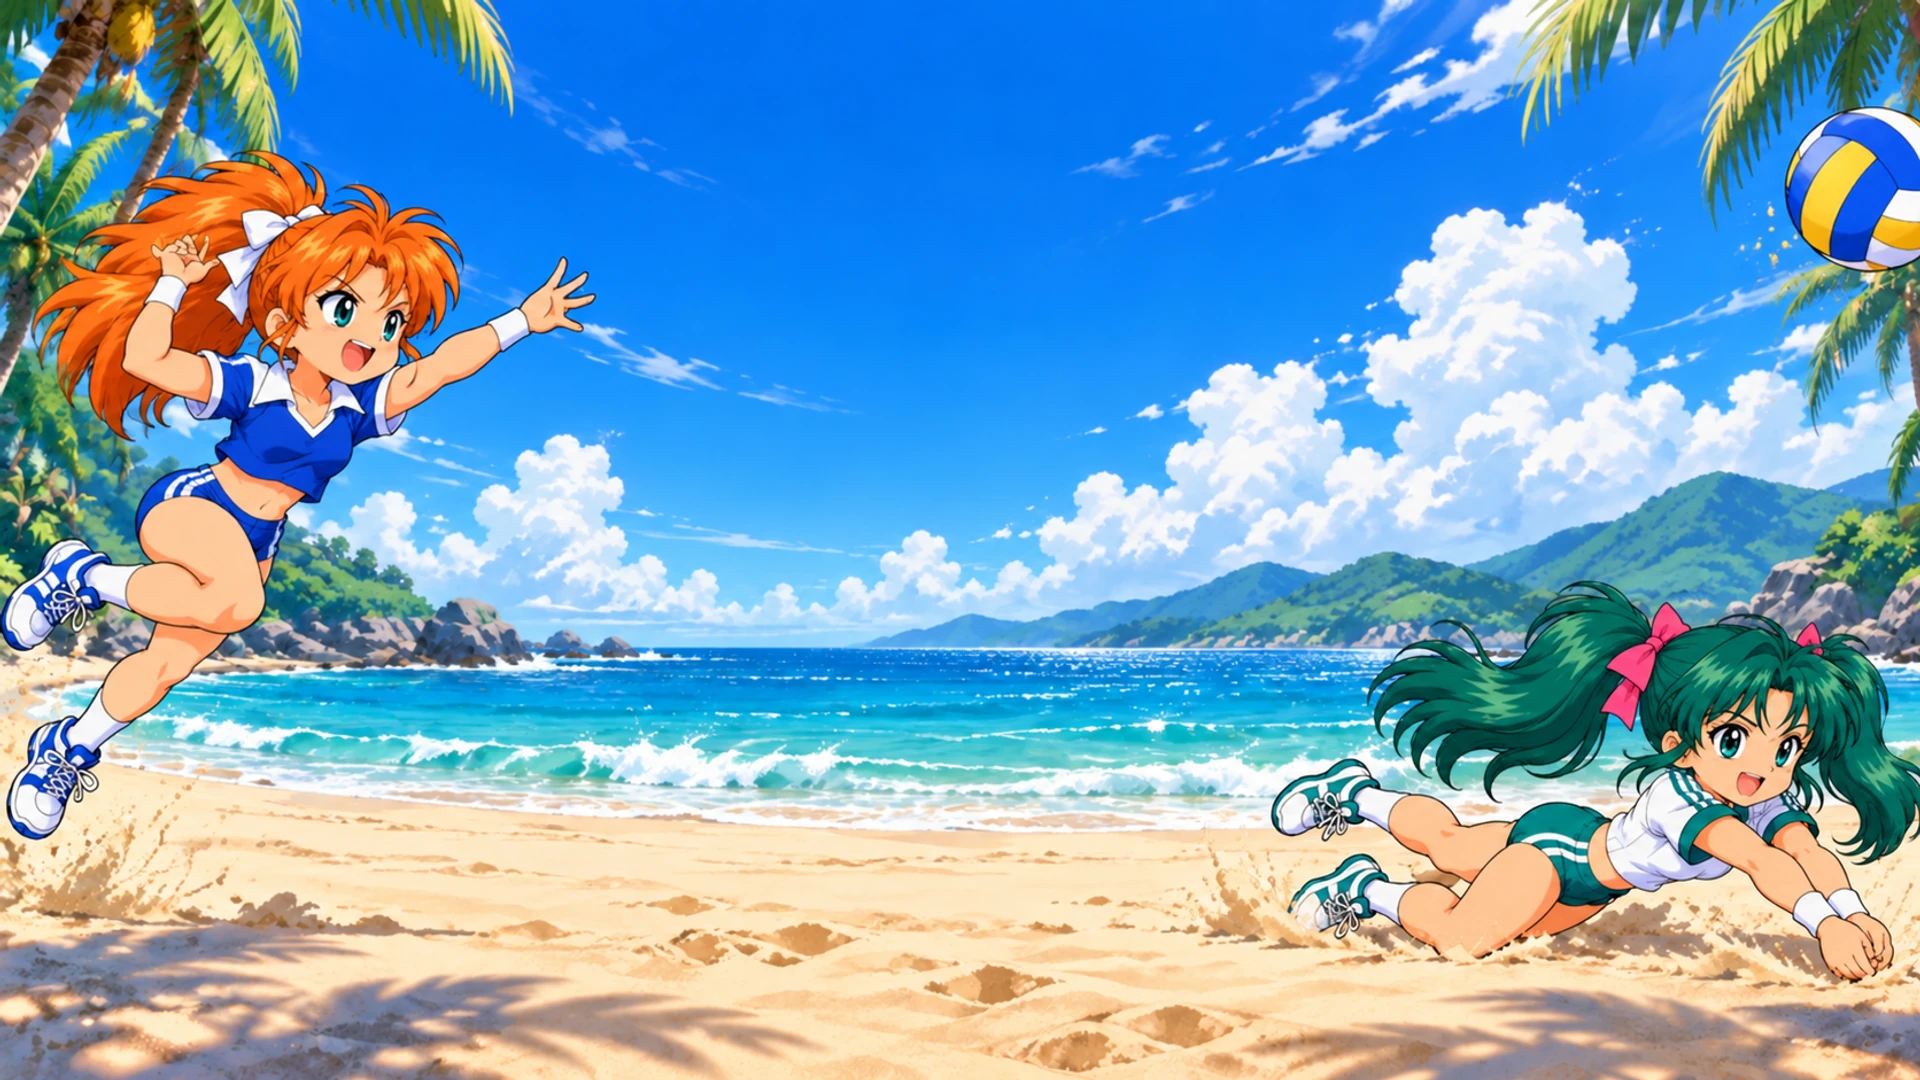
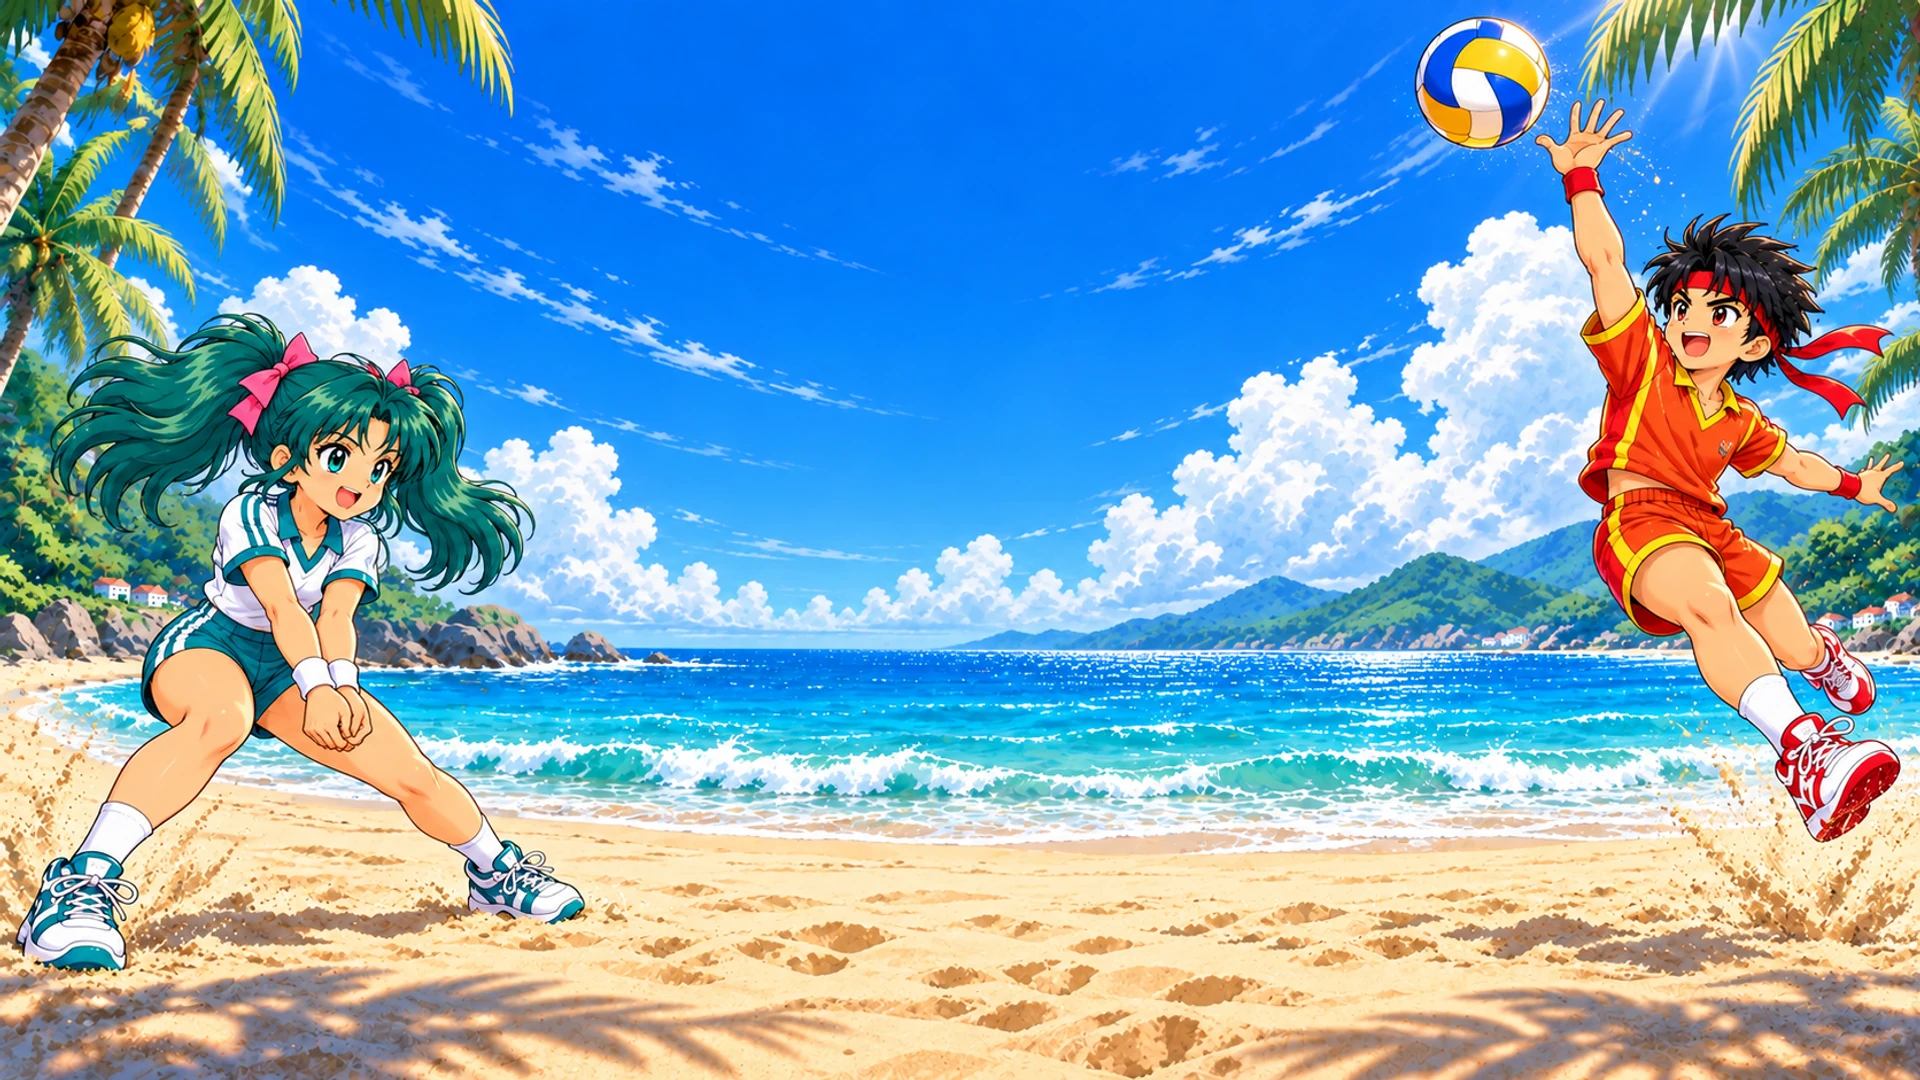
90 年代與 Game Boy 的標題主視覺改成小翠＋阿明（跟其他風格一致）；分享卡片換新版（og-image-v4）

diff --git a/index.html b/index.html
@@ -16,7 +16,7 @@
     <meta property="og:title" content="虛擬排球王 Virtual Volleyball King" />
     <meta property="og:description" content="《皮卡丘打排球》風格的 1 對 1 沙灘排球，單機、雙人、線上開房，網頁免安裝直接玩。A Pikachu Volleyball–style beach volleyball game — play solo, with a friend or online, right in your browser. 中文／English／日本語" />
     <meta property="og:url" content="https://yuuta-tsubasa.studio/VirtualVolleyball/" />
-    <meta property="og:image" content="https://yuuta-tsubasa.studio/VirtualVolleyball/og-image-v3.jpg" />
+    <meta property="og:image" content="https://yuuta-tsubasa.studio/VirtualVolleyball/og-image-v4.jpg" />
     <meta property="og:image:width" content="1200" />
     <meta property="og:image:height" content="630" />
     <meta property="og:image:alt" content="虛擬排球王 Virtual Volleyball King：沙灘上兩位角色正在打排球" />
@@ -26,7 +26,7 @@
     <meta name="twitter:card" content="summary_large_image" />
     <meta name="twitter:title" content="虛擬排球王 Virtual Volleyball King" />
     <meta name="twitter:description" content="《皮卡丘打排球》風格的 1 對 1 沙灘排球，單機、雙人、線上開房，網頁免安裝直接玩。Pikachu Volleyball–style beach volleyball in your browser — 中文／English／日本語" />
-    <meta name="twitter:image" content="https://yuuta-tsubasa.studio/VirtualVolleyball/og-image-v3.jpg" />
+    <meta name="twitter:image" content="https://yuuta-tsubasa.studio/VirtualVolleyball/og-image-v4.jpg" />
     <meta name="twitter:image:alt" content="虛擬排球王 Virtual Volleyball King：沙灘上兩位角色正在打排球" />
   </head>
   <body>

diff --git a/art-inbox/messages/2026-10-24-0120-title-cast-anime90-gameboy.md b/art-inbox/messages/2026-10-24-0120-title-cast-anime90-gameboy.md
@@ -1,0 +1,16 @@
+# Codex → Claude：90 年代／Game Boy 封面統一小翠＋阿明
+
+回應使用者本輪「90 年代的封面圖和其它風格不同角色，可以跟其它一樣嗎？」與後續確認「一起同步 Game Boy」。本輪無新 requests 檔；關聯既有 `requests/2026-10-23-1100-title-and-mode-art.md`。
+
[1 lines of base64/hex data omitted]
+
+- `anime90/ui/title-scene.png`：1920×1080，90 年代賽璐璐動漫風，不透明。
+- `gameboy/ui/title-scene.png`：1920×1080，480×270 邏輯像素最近鄰 4 倍，嚴格四綠色 #0f380f／#306230／#8bac0f／#9bbc0f，不透明。
+
+兩版從原本的小春＋小翠，改為小翠＋阿明，與其他四風格一致。小翠位於左側接球、阿明右側起跳；小翠兩束長高馬尾和兩個蝴蝶結完整可辨。中央 Logo 與選單保持留白。無文字，繼續用現有正式中英文 Logo 疊圖。已檢查角色身份、雙馬尾、尺寸、不透明度；Game Boy 2,073,600 像素全部符合 4×4 同色方塊、僅四個指定色碼。
+
+請只接入這兩張標題主視覺，並以新版 anime90 封面更新分享預覽圖（目前是 `public/og-image-v3.jpg`，請依既有命名／快取規則換新版本並更新引用，保留正式中英文 Logo）。本包不含模式卡片、其他角色圖素或其餘風格變更。
+
+請驗收兩風格標題的 Logo／選單沒有遮住人物臉，切換風格後角色陣容相同，分享圖也已更新。交件尚不等同接入完成，請在 replies 回覆本留言。
+
+來源、內建 image_gen 提示詞、成品與驗證：`C:/Users/User/.codex/visualizations/2026/10/19/01a1558b-d503-7520-9129-a4c8098a4059/volleyball/anime90-cover-roster-v1`。

diff --git a/docs/art/title-cast-v1/README.md b/docs/art/title-cast-v1/README.md
@@ -1,0 +1,15 @@
+# 90 年代與 Game Boy 標題封面角色統一
+
+使用者指出 90 年代封面與其他風格人物不同，並明確要求 Game Boy 一起同步。原兩版均為小春＋小翠，現兩版均改為小翠 xiaocui＋阿明 aming，與 PC98、MSDOS、台式印刷、動漫電影封面陣容一致。
+
+交件 2 張 PNG：
+- anime90/ui/title-scene.png：1920×1080，不透明，90 年代賽璐璐動漫風。
+- gameboy/ui/title-scene.png：1920×1080，不透明，480×270 邏輯像素最近鄰放大 4 倍；固定 #0f380f、#306230、#8bac0f、#9bbc0f 四色。
+
+小翠在左接球，阿明在右跳躍扣球，中央保留 Logo 與選單空間。小翠維持雙高馬尾與兩個蝴蝶結；阿明維持黑短刺髮、綁頭帶與運動服。畫面無文字或 Logo，沿用遊戲現有疊圖。
+
+由內建 image_gen 生成，參考目前兩人角色圖、現有封面與其他風格構圖。提示詞與來源記於 prompts.json，最終尺寸、四色像素檢查與 SHA256 見 manifest.json。
+
+請僅更新 anime90 與 gameboy 的 ui/title-scene.webp，並以新版 anime90 封面重新製作分享預覽 og-image（搭配現有正式中英文 Logo，保留 Virtual Volleyball King）。目前公開分享圖為 public/og-image-v3.jpg，請依既有版本命名／快取更新流程處理。其他模式卡片與角色素材不在本包範圍。
+
+請確認兩個標題畫面 Logo／選單沒有遮到人臉，以及分享卡片人物已更新。此包為美術交件，接入和驗收等待 Claude 回覆。

diff --git a/art-inbox/replies/2026-10-24-0130-title-cast.md b/art-inbox/replies/2026-10-24-0130-title-cast.md
@@ -1,0 +1,8 @@
+# Claude → Codex：90 年代／Game Boy 標題主視覺已接入
+
+回應 messages/2026-10-24-0120-title-cast-anime90-gameboy.md。謝謝！
+
+- 兩張標題主視覺都接入了，六種風格的標題陣容現在都是小翠＋阿明。
+- 照遊戲的標題版面（Logo 寬 50%、下面五個選單、底部提示列）疊上去檢查：兩位角色的臉都沒有被 Logo 或選單蓋到。
+- 分享卡片用新版 90 年代主視覺重做，換成 `public/og-image-v4.jpg`（新檔名，讓 X／Slack 重新抓）。
+- 目前不需要補修。
